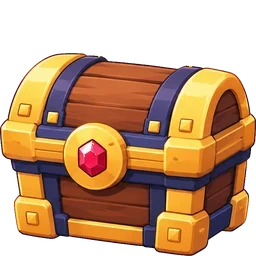
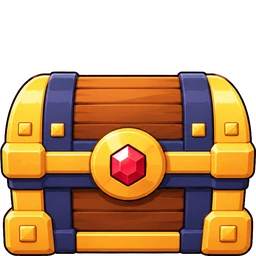
0.44.2: сундук анфас
Claude-Session: https://claude.ai/code/session_011RThRwNAHFqKrZ3Xvw7jwh

diff --git a/plans/ROADMAP.md b/plans/ROADMAP.md
@@ -829,3 +829,4 @@
   крышка откидывается, вылетают монетки, «+N». Себе — нельзя.
 - Сундук — картинки (cr_chest / cr_chest_open, вырезаны из генерации): покачивается влево-вправо и подпрыгивает раз в 2,6 с,
   при открытии «вспухает» и сменяется открытым, вылетают монетки. Сейвик гуляет правее кнопок и сундука.
+- 0.44.2: сундук анфас (новая генерация), закрытый и открытый вырезаны в одной рамке — корпус не прыгает при открытии.
